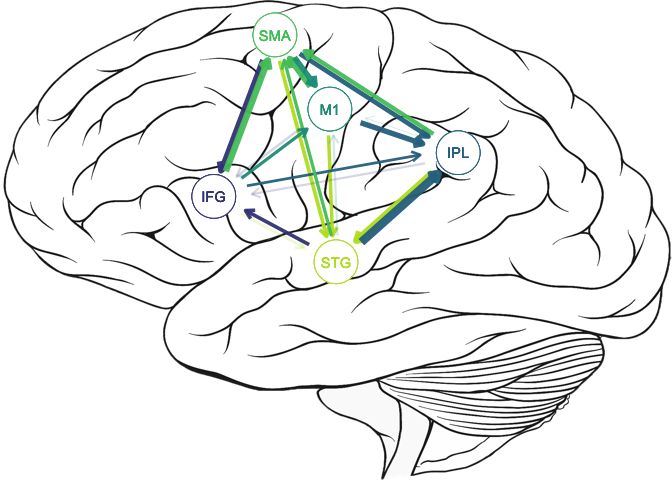
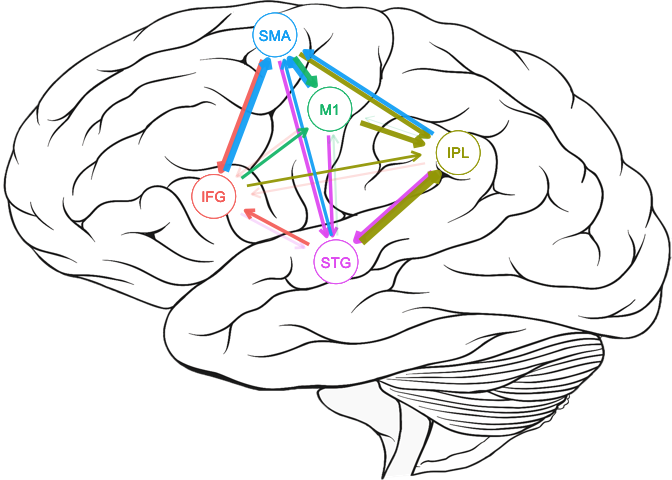
no errors/warnings/notes, hex, and such

Changed region(s): [[0.2812, 0.0312, 0.7188, 0.5938]]

diff --git a/README.md b/README.md
@@ -1,13 +1,13 @@
 
 <!-- README.md is generated from README.Rmd. Please edit that file -->
 
-# connectivity
+# `connectivity` v0.1.0 <img src="inst/connectivity_hex.png" align="right" width="30%" height="30%"/>
 
-The goal of connectivity is to make the importing, cleaning, and
-analyzing of NIRS data recipe based. That is, we will use a simple
+The goal of connectivity is to make the importing/cleaning, analyzing,
+and visualizing of NIRS data recipe based. That is, we will use a simple
 recipe to take our individual NIRS files and make clear, concise
-analyses with interpretable output. Our approach uses a type of
-Granger-Causality approach using linear mixed effects models.
+analyses with interpretable output. Our approach uses a
+Granger-Causality-type approach using linear mixed effects models.
 
 ## Installation
 
@@ -21,9 +21,11 @@ remotes::install_github("tysonstanley/connectivity")
 
 The receipe is as follows:
 
-1.  Import and Clean
-2.  Analyze
-3.  Visualize
+1.  Import and Clean (`import_nirs()`)
+2.  Analyze (`get_connectivity()`)
+3.  Visualize (`effectsize_viz()` or `brain_viz()`)
+
+### Step 1. Import and Clean
 
 The `import_nirs()` function depends on a files structure that looks
 something like:
@@ -54,12 +56,6 @@ what region goes with which channel from the Probe files, we use the
 import function like so:
 
 ``` r
-## Superior Temporal Gyrus (STG),
-## Inferior Parietal Lobule (made up of Supramarginal Gyrus and Angular Gyrus),
-## Inferior frontal Gyrus (IFG),
-## Supplementary Motor Association (SMA) and
-## the Motor Cortex (M1)
-
 library(connectivity)
 
 path <- "~/Box/Stuttering Writing Group/PhoneCallsControl/"
@@ -67,9 +63,18 @@ data <- import_nirs(path,
                     stg = 22, ipl = c(39, 40), ifg = c(44, 45), sma = 6, m1 = 4)
 ```
 
-The `stg = 22, ipl = c(30, 40), ...` correspond to regions (the name)
-and their number in the `*brod.csv` file. This creates a nested tibble
-called `data` that looks like this:
+where we are interested in the following regions:
+
+  - Superior Temporal Gyrus (STG),
+  - Inferior Parietal Lobule (made up of Supramarginal Gyrus and Angular
+    Gyrus),
+  - Inferior frontal Gyrus (IFG),
+  - Supplementary Motor Association (SMA) and
+  - the Motor Cortex (M1).
+
+The `stg = 22, ipl = c(30, 40), ...` correspond to regions (the name of
+the region) and the number refers to the number in the `*brod.csv` file.
+This creates a nested tibble called `data` that looks like this:
 
 ``` r
 data
@@ -87,11 +92,9 @@ data
 ```
 
 The `probe_data` variable contains all the NIRS information about the
-corresponding participant. From here, we can run our connectivity
-analysis, which will run a series of linear mixed effects models. If we
-specify a group variable, the models will include a region by group
-interaction. Here, we are only going to use the “resting” task for these
-analyses.
+corresponding participant. We need to make sure that the data still have
+the “regions” attribute with the names of the regions that you are
+interested in. This information is used in the next step.
 
 ``` r
 ## Subset the data to just resting and assign to `rest`
@@ -101,6 +104,17 @@ rest$probe_data = purrr::map(rest$probe_data, ~.x %>% filter(task == "rest"))
 attr(rest, "regions")
 #> [1] "stg" "ipl" "ifg" "sma" "m1"
 ```
+
+### Step 2. Analyze
+
+From here, we can do our connectivity analyses, which will run a series
+of linear mixed effects models. If we specify a group variable, the
+models will include a region by group interaction. Here, we are only
+going to use the “resting” task for these analyses (that we created
+above). The `get_connectivity()` function runs the linear mixed models
+and provides us with a tibble where it shows us our outcome (`outcome`),
+the predictor region (`rowname`), the effect size estimate (`est`), and
+the p-value (`pvalue`).
 
 ``` r
 fits <- get_connectivity(rest, covariates = c("(1 | participant)"))
@@ -133,13 +147,14 @@ fits
 #> 25      m1     lag  3.374576e-01  0.000000e+00
 ```
 
-This `fits` object has all the estimates from the various models and
-their corresopnding p-values (based on Satterthwaite approximation to
-degrees of freedom). The `est` variable shows us the effect size for
-each variable. This effect size is the average individuals standardized
-coefficient (similar to a partial correlation). (Note that `lag` is the
-1 lag of the outcome variable and so its effect sizes will almost always
-be really big).
+In this case, this `fits` object has all the estimates from the various
+models and their corresopnding p-values (based on Satterthwaite
+approximation to degrees of freedom). The `est` variable shows us the
+effect size for each variable. This effect size is the average
+individuals standardized coefficient (similar to a partial correlation).
+(Note that `lag` is the 1 lag of the outcome variable and so its effect
+sizes will almost always be really big and is generally not of direct
+interest).
 
 We can visualize these results in two main ways:
 
@@ -164,6 +179,16 @@ brain_viz(fits)
 ```
 
 <img src="man/figures/README-unnamed-chunk-7-1.png" width="100%" />
+
+To control the colors of the circles and lines, use any of the ggplot2
+scale\_color\_\* functions:
+
+``` r
+brain_viz(fits) +
+  scale_color_viridis_d()
+```
+
+<img src="man/figures/README-unnamed-chunk-8-1.png" width="100%" />
 
 For this brain viz, there is a built-in list of regions with
 corresponding `x` and `y` values that fit this diagram.
@@ -203,4 +228,12 @@ regs <- tibble::tribble(
 brain_viz(fits, regs = regs)
 ```
 
-<img src="man/figures/README-unnamed-chunk-9-1.png" width="100%" />
+<img src="man/figures/README-unnamed-chunk-10-1.png" width="100%" />
+
+## Conclusion
+
+This package is designed to import/clean, analyze, and visualize a
+specific set of data. If your data do not follow the general outline
+shown above, then this package will likely throw errors. It is still in
+heavy development. Contact <t.barrett@aggiemail.usu.edu> for questions
+or comments.
